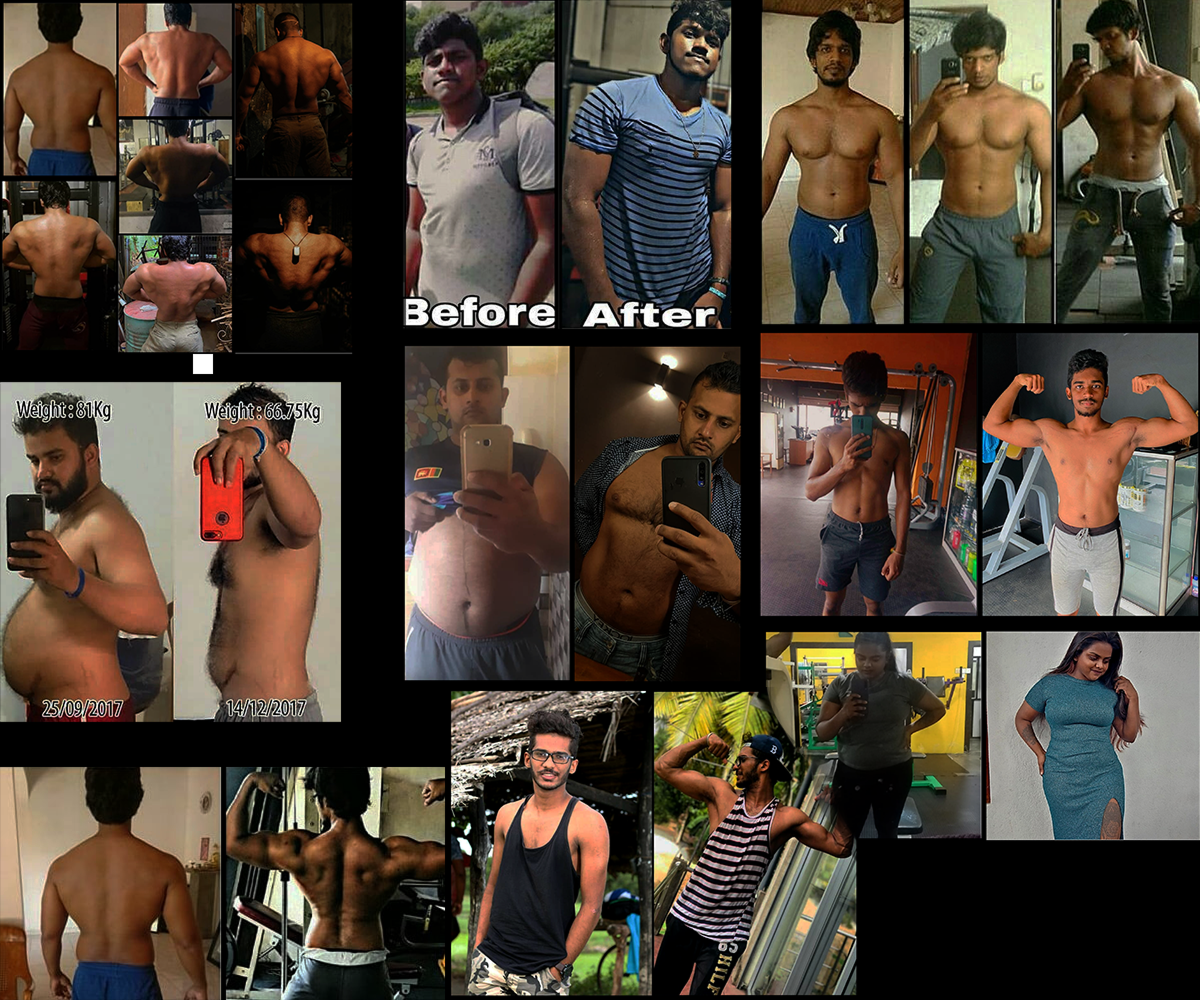
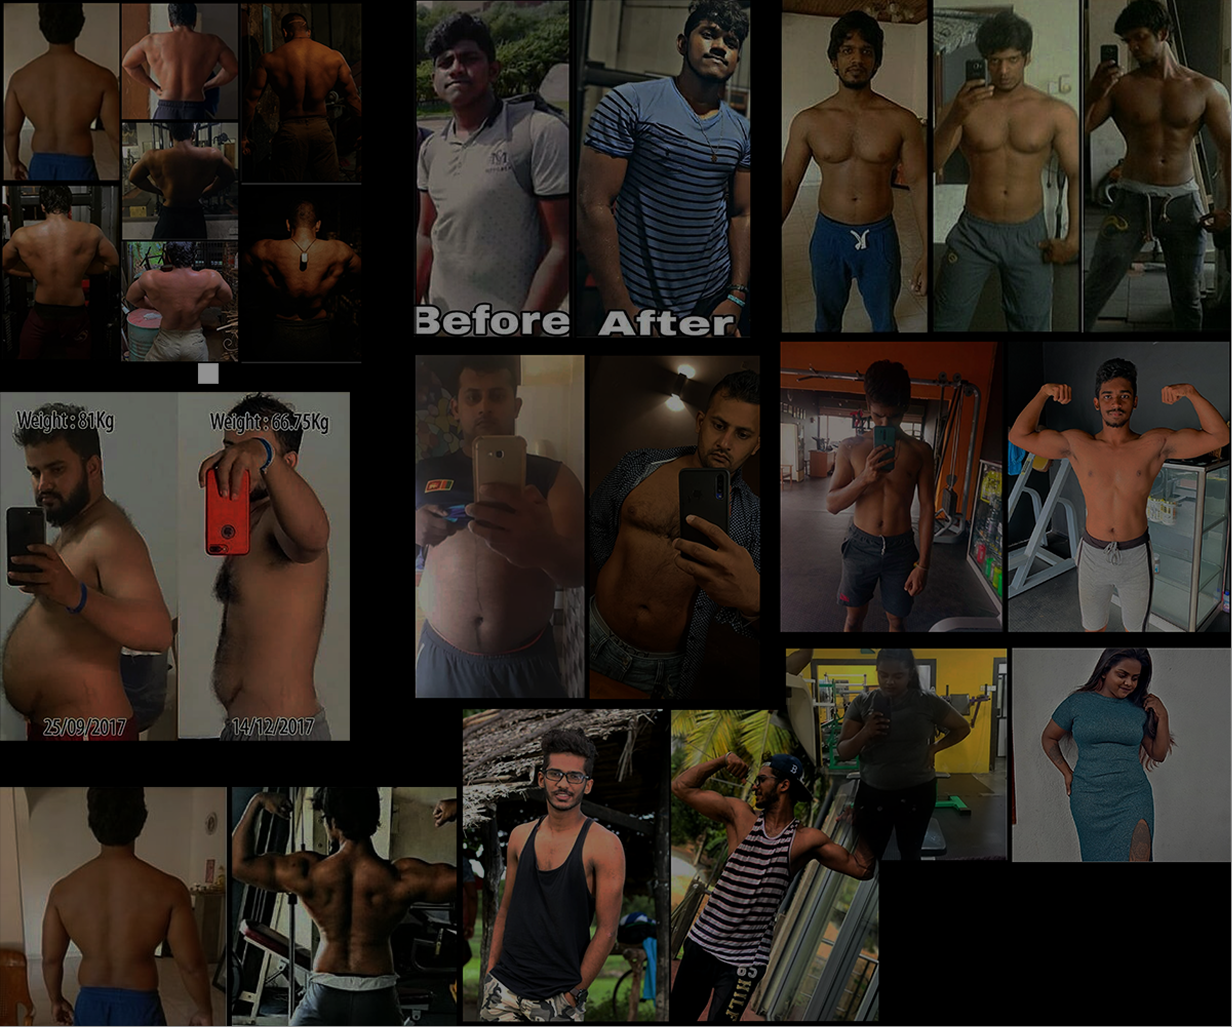
Final 27 June 2025

diff --git a/src/components/Membership.jsx b/src/components/Membership.jsx
@@ -6,41 +6,48 @@ import SectionWrapper from "./SectionWrapper";
 
 function Membership() {
   return (
-    <SectionWrapper id="membership_section" className="logo-family">
+    <SectionWrapper className="logo-family">
+      <div id="membership_section"></div>
       <SectionHeading fadeText="Membership" visibleText="Membership" />
 
-      <div className="relative flex flex-col lg:flex-row justify-center items-center text-center gap-5 lg:gap-0">
-        <div className="flex p-5 justify-evenly flex-col items-center relative lg:translate-x-4 bg-[var(--logo-red-o40)] w-[320px] lg:w-[300px] h-[400px] lg:h-[500px]">
+      <div className="relative flex flex-col lg:flex-row justify-center items-center text-center gap-5 lg:gap-10">
+        {/* <div className="flex p-5 justify-evenly flex-col items-center relative lg:translate-x-4 bg-[var(--logo-red-o40)] w-[320px] lg:w-[300px] h-[400px] lg:h-[500px]">
           <h2 className="text-2xl">Permanent-Membership</h2>
           <img src={vipMember} alt="vip-svg" />
           <p className="text-base lg:text-xl">
             One Time Payment of Rs. 120,000 per person
           </p>
           <p className="text-base">No Admission</p>
-        </div>
+        </div> */}
 
-        <div className="flex p-5 justify-evenly flex-col items-center relative lg:-translate-y-4 z-10 bg-[var(--logo-red)] w-[320px] lg:w-[300px] h-[400px] lg:h-[500px]">
+{/* Individual Pricing - 1M 2500 3M 6000 6M 10000 12M 18000  
+Couple Pricing - 1M 4000 3M 10000 6M 15000 12M 25000
+1D 500 */}
+
+
+
+        <div className="flex p-5 justify-evenly flex-col items-center relative bg-[var(--logo-red)] hover:bg-[var(--logo-red-o40)] duration-1300 ease-in-out transition-all rounded-3xl hover:text-white w-[320px] lg:w-[300px] h-[400px] lg:h-[500px]">
           <h2 className="text-2xl">Solo-Membership</h2>
           <img src={soloMember} alt="vip-svg" />
-          <p className="text-base lg:text-xl">
-            Rs.3,000 per month <br />
-            Rs.6,000 / per 3 months <br />
-            Rs.12,000 per 6 months <br />
-            Rs.20,000 / per year
+          <p className="text-base lg:text-xl font-bold">
+            Rs.2,500 per month <br />
+            Rs.6,000 per 3 months <br />
+            Rs.10,000 per 6 months <br />
+            Rs.18,000 / per year
           </p>
-          <p className="text-base">No Admission for 6 to 1 year memberships</p>
+          <p className="text-base">No Admission for 3 to 1 year memberships</p>
         </div>
 
-        <div className="flex p-5 justify-evenly flex-col items-center relative lg:-translate-x-4 bg-[var(--logo-red-o40)] w-[320px] lg:w-[300px] h-[400px] lg:h-[500px]">
+        <div className="flex p-5 justify-evenly flex-col items-center relative lg:-translate-x-4 bg-[var(--logo-red)] hover:bg-[var(--logo-red-o40)] duration-1300 ease-in-out transition-all rounded-3xl hover:text-white w-[320px] lg:w-[300px] h-[400px] lg:h-[500px]">
           <h2 className="text-2xl">Couple-Membership</h2>
           <img src={coupleMember} alt="vip-svg" />
           <p className="text-base lg:text-xl">
-            Rs.5,000 per month <br />
-            Rs.6,000 / per 3 months <br />
-            Rs.12,000 per 6 months <br />
-            Rs.20,000 / per year
+            Rs.4,000 per month <br />
+            Rs.10,000 per 3 months <br />
+            Rs.15,000 per 6 months <br />
+            Rs.25,000 / per year
           </p>
-          <p className="text-base">No Admission for 6 to 1 year memberships</p>
+          <p className="text-base">No Admission for 3 to 1 year memberships</p>
         </div>
       </div>
     </SectionWrapper>

diff --git a/src/components/Membership_draft.jsx b/src/components/Membership_draft.jsx
@@ -1,0 +1,50 @@
+import vipMember from "../assets/vipmember.svg";
+import coupleMember from "../assets/couplemember.svg";
+import soloMember from "../assets/solomember.svg";
+import SectionHeading from "./SectionHeading";
+import SectionWrapper from "./SectionWrapper";
+
+function Membership() {
+  return (
+    <SectionWrapper id="membership_section" className="logo-family">
+      <SectionHeading fadeText="Membership" visibleText="Membership" />
+
+      <div className="relative flex flex-col lg:flex-row justify-center items-center text-center gap-5 lg:gap-0">
+        <div className="flex p-5 justify-evenly flex-col items-center relative lg:translate-x-4 bg-[var(--logo-red-o40)] w-[320px] lg:w-[300px] h-[400px] lg:h-[500px]">
+          <h2 className="text-2xl">Permanent-Membership</h2>
+          <img src={vipMember} alt="vip-svg" />
+          <p className="text-base lg:text-xl">
+            One Time Payment of Rs. 120,000 per person
+          </p>
+          <p className="text-base">No Admission</p>
+        </div>
+
+        <div className="flex p-5 justify-evenly flex-col items-center relative lg:-translate-y-4 z-10 bg-[var(--logo-red)] w-[320px] lg:w-[300px] h-[400px] lg:h-[500px]">
+          <h2 className="text-2xl">Solo-Membership</h2>
+          <img src={soloMember} alt="vip-svg" />
+          <p className="text-base lg:text-xl">
+            Rs.3,000 per month <br />
+            Rs.6,000 / per 3 months <br />
+            Rs.12,000 per 6 months <br />
+            Rs.20,000 / per year
+          </p>
+          <p className="text-base">No Admission for 6 to 1 year memberships</p>
+        </div>
+
+        <div className="flex p-5 justify-evenly flex-col items-center relative lg:-translate-x-4 bg-[var(--logo-red-o40)] w-[320px] lg:w-[300px] h-[400px] lg:h-[500px]">
+          <h2 className="text-2xl">Couple-Membership</h2>
+          <img src={coupleMember} alt="vip-svg" />
+          <p className="text-base lg:text-xl">
+            Rs.5,000 per month <br />
+            Rs.6,000 / per 3 months <br />
+            Rs.12,000 per 6 months <br />
+            Rs.20,000 / per year
+          </p>
+          <p className="text-base">No Admission for 6 to 1 year memberships</p>
+        </div>
+      </div>
+    </SectionWrapper>
+  );
+}
+
+export default Membership;

diff --git a/index.html b/index.html
@@ -1,8 +1,31 @@
-<!doctype html>
+<!DOCTYPE html>
 <html lang="en">
   <head>
     <meta charset="UTF-8" />
     <link rel="icon" type="image/svg+xml" href="./src/assets/logo.svg" />
+    <meta name="viewport" content="width=device-width, initial-scale=1.0" />
+    <meta
+      name="description"
+      content="Achieve your fitness goals with Figure Artist Fitness club , Figure Artist offering strength training, personal coaching, and modern equipment in a motivating environment."
+    />
+    <meta
+      name="keywords"
+      content="gym, fitness, personal training, strength training, weight loss, health club, workout, bodybuilding, Mavithara Piliyandala Kottawa"
+    />
+    <meta name="author" content="Bryan Fernando" />
+    <meta
+      property="og:title"
+      content="Join Figure Artist Fitness Club - Your Ultimate Fitness Destination"
+    />
+    <meta
+      property="og:description"
+      content="Experience top-tier workouts, expert trainers, and a supportive fitness community at Figure Artist Fitness Club."
+    />
+    <meta
+      property="og:image"
+      content="https://figureartist.lk/assets/eventsidebanner-C3o62IEr.png"
+    />
+    <meta property="og:url" content="https://figureartist.lk" />
     <meta name="viewport" content="width=device-width, initial-scale=1.0" />
     <title>Figure Artist Fitness Club</title>
   </head>

diff --git a/src/components/MeetCoach.jsx b/src/components/MeetCoach.jsx
@@ -1,4 +1,4 @@
-import CoachIMG from "../assets/chinthakasoloass.png";
+import CoachIMG from "../assets/coach1.png";
 import { Link } from "react-router-dom";
 import SectionHeading from "./SectionHeading";
 import SectionWrapper from "./SectionWrapper";
@@ -28,17 +28,23 @@ function MeetCoach() {
             a battle worth fighting every day." - Coach Chinthaka
           </p>
           <div>
-            <a
+            <Link
+              className="font-bold transition duration-300 ease-in-out hover:cursor-pointer hover:bg-white hover:text-black rounded-lg p-3 bg-[var(--logo-red)]"
+              to="#"
+            >
+              More About the Coach
+            </Link>
+            {/* <a
               href="/coach"
               className="font-bold transition duration-300 ease-in-out hover:cursor-pointer hover:bg-white hover:text-black rounded-lg p-3 bg-[var(--logo-red)]"
             >
               More About the Coach
-            </a>
+            </a> */}
           </div>
         </div>
 
         <div>
-          <img className="w-40" src={CoachIMG} alt="" />
+          <img className="mt-[-100px]" src={CoachIMG} alt="" />
         </div>
       </div>
     </SectionWrapper>

diff --git a/src/components/OurVibe.jsx b/src/components/OurVibe.jsx
@@ -16,7 +16,7 @@ function OurVibe() {
         <div className="hidden lg:inline">
           <img src={ourVibeImg} alt="" />
         </div>
-        <div className="text-base p-7 leading-7 lg:p-0 lg:w-125 lg:text-3xl lg:leading-10">
+        <div className="text-base p-7 leading-7 lg:p-0 lg:w-125 lg:text-2xl lg:leading-10">
           <p>
             At our gym, it's not just about lifting weights — it's about lifting
             each other up. We’re a small, tight-knit community where everyone
@@ -24,10 +24,10 @@ function OurVibe() {
             starting out or pushing new limits, you’ll find encouragement,
             motivation, and real connections here.
           </p>
-          <ul className="pt-10">
-            <li>*Annual Gym Competition</li>
-            <li>*Community Support</li>
-            <li>*Personal Coaching</li>
+          <ul className="pt-10 lg:pt-25">
+            <li>- Annual Gym Competition</li>
+            <li>- Community Support</li>
+            <li>- Personal Coaching</li>
           </ul>
         </div>
       </div>

diff --git a/src/components/Events.jsx b/src/components/Events.jsx
@@ -8,13 +8,14 @@ import SectionWrapper from "./SectionWrapper";
 
 function Events() {
   return (
-    <SectionWrapper id="events_section" classname="">
+    <SectionWrapper >
+      <div id="events_section"></div>
       <SectionHeading fadeText="Our Events" visibleText="Join Our Events" />
 
       <div className="flex justify-center logo-second-family lg:gap-10 pb-6 p-2 ">
-        <div className="flex flex-col w-125 gap-10 lg:gap-15 lg:pt-15">
-          <p className="text-center lg:text-left font-bold leading-3 lg:leading-8 lg:text-4xl">
-            Mr & Ms Strongest <hr /> <br /> Cricket Tournaments
+        <div className="flex flex-col items-center w-125 gap-10 lg:gap-15 lg:pt-15">
+          <p className="w-50 lg:w-120 text-center lg:text-left font-bold leading-3 lg:leading-8 lg:text-4xl">
+            Mr & Ms Strongest <hr /> <br /> Mr. and Miss. Figure Artist <hr /> <br /> Cricket Tournaments
             <hr /> <br /> Outings
             <hr />
           </p>

diff --git a/src/css/index.css b/src/css/index.css
@@ -18,12 +18,14 @@
   --logo-red-o40: #d4212a40;
   --logo-black: #231f20;
   --logo-white: #ffffff;
+  --text-color: #C5C5C5;
 }
 
 html {
   background-color: black;
   color: white;
   scroll-behavior: smooth;
+  color: var(--text-color);
 }
 
 .logo-family {
@@ -31,5 +33,7 @@ html {
 }
 
 .logo-second-family {
-  font-family: "Courier New", monospace;
+  /* font-family: "Courier New", monospace; */
+    font-family: "Abhaya Libre SemiBold";
+
 }

diff --git a/src/components/WeAreOpen.jsx b/src/components/WeAreOpen.jsx
@@ -15,7 +15,7 @@ function WeAreOpen() {
       </div>
 
       <div className="flex flex-col items-center justify-center pt-20 lg:pb-20">
-        <div className="text-3xl pb-5 lg:pb-8 lg:text-5xl">
+        <div className="text-[var(--logo-white)] text-3xl pb-5 lg:pb-8 lg:text-5xl">
           <h1>We are Open</h1>
         </div>
         <div className="flex gap-3 flex-col lg:flex-row lg:gap-20">

diff --git a/src/components/SectionHeading.jsx b/src/components/SectionHeading.jsx
@@ -5,7 +5,7 @@ function SectionHeading({ visibleText, fadeText }) {
         {fadeText}
       </h1>
       <h2
-        className="absolute bottom-0 lg:bottom-4 text-3xl lg:text-5xl"
+        className="text-[var(--logo-white)] absolute bottom-0 lg:bottom-4 text-3xl lg:text-5xl"
       >
         {visibleText}
       </h2>

diff --git a/src/components/SectionWrapper.jsx b/src/components/SectionWrapper.jsx
@@ -1,7 +1,7 @@
 function SectionWrapper({ children, className = "" }) {
   return (
     <div
-      className={`mt-10 mb-30  lg:mt-20 lg:mb-20  ${className}`}
+      className={`mt-10 mb-30  lg:mt-30 lg:mb-30  ${className}`}
     >
       {children}
     </div>

diff --git a/src/components/BodyTransformation.jsx b/src/components/BodyTransformation.jsx
@@ -11,6 +11,7 @@ function BodyTransformation() {
       />
 
       <div className="flex justify-center p-2 lg:p-0">
+        <div className="backgroun bg-black z-10"></div>
         <img src={BodyTransBanner} alt="" />
       </div>
     </SectionWrapper>
